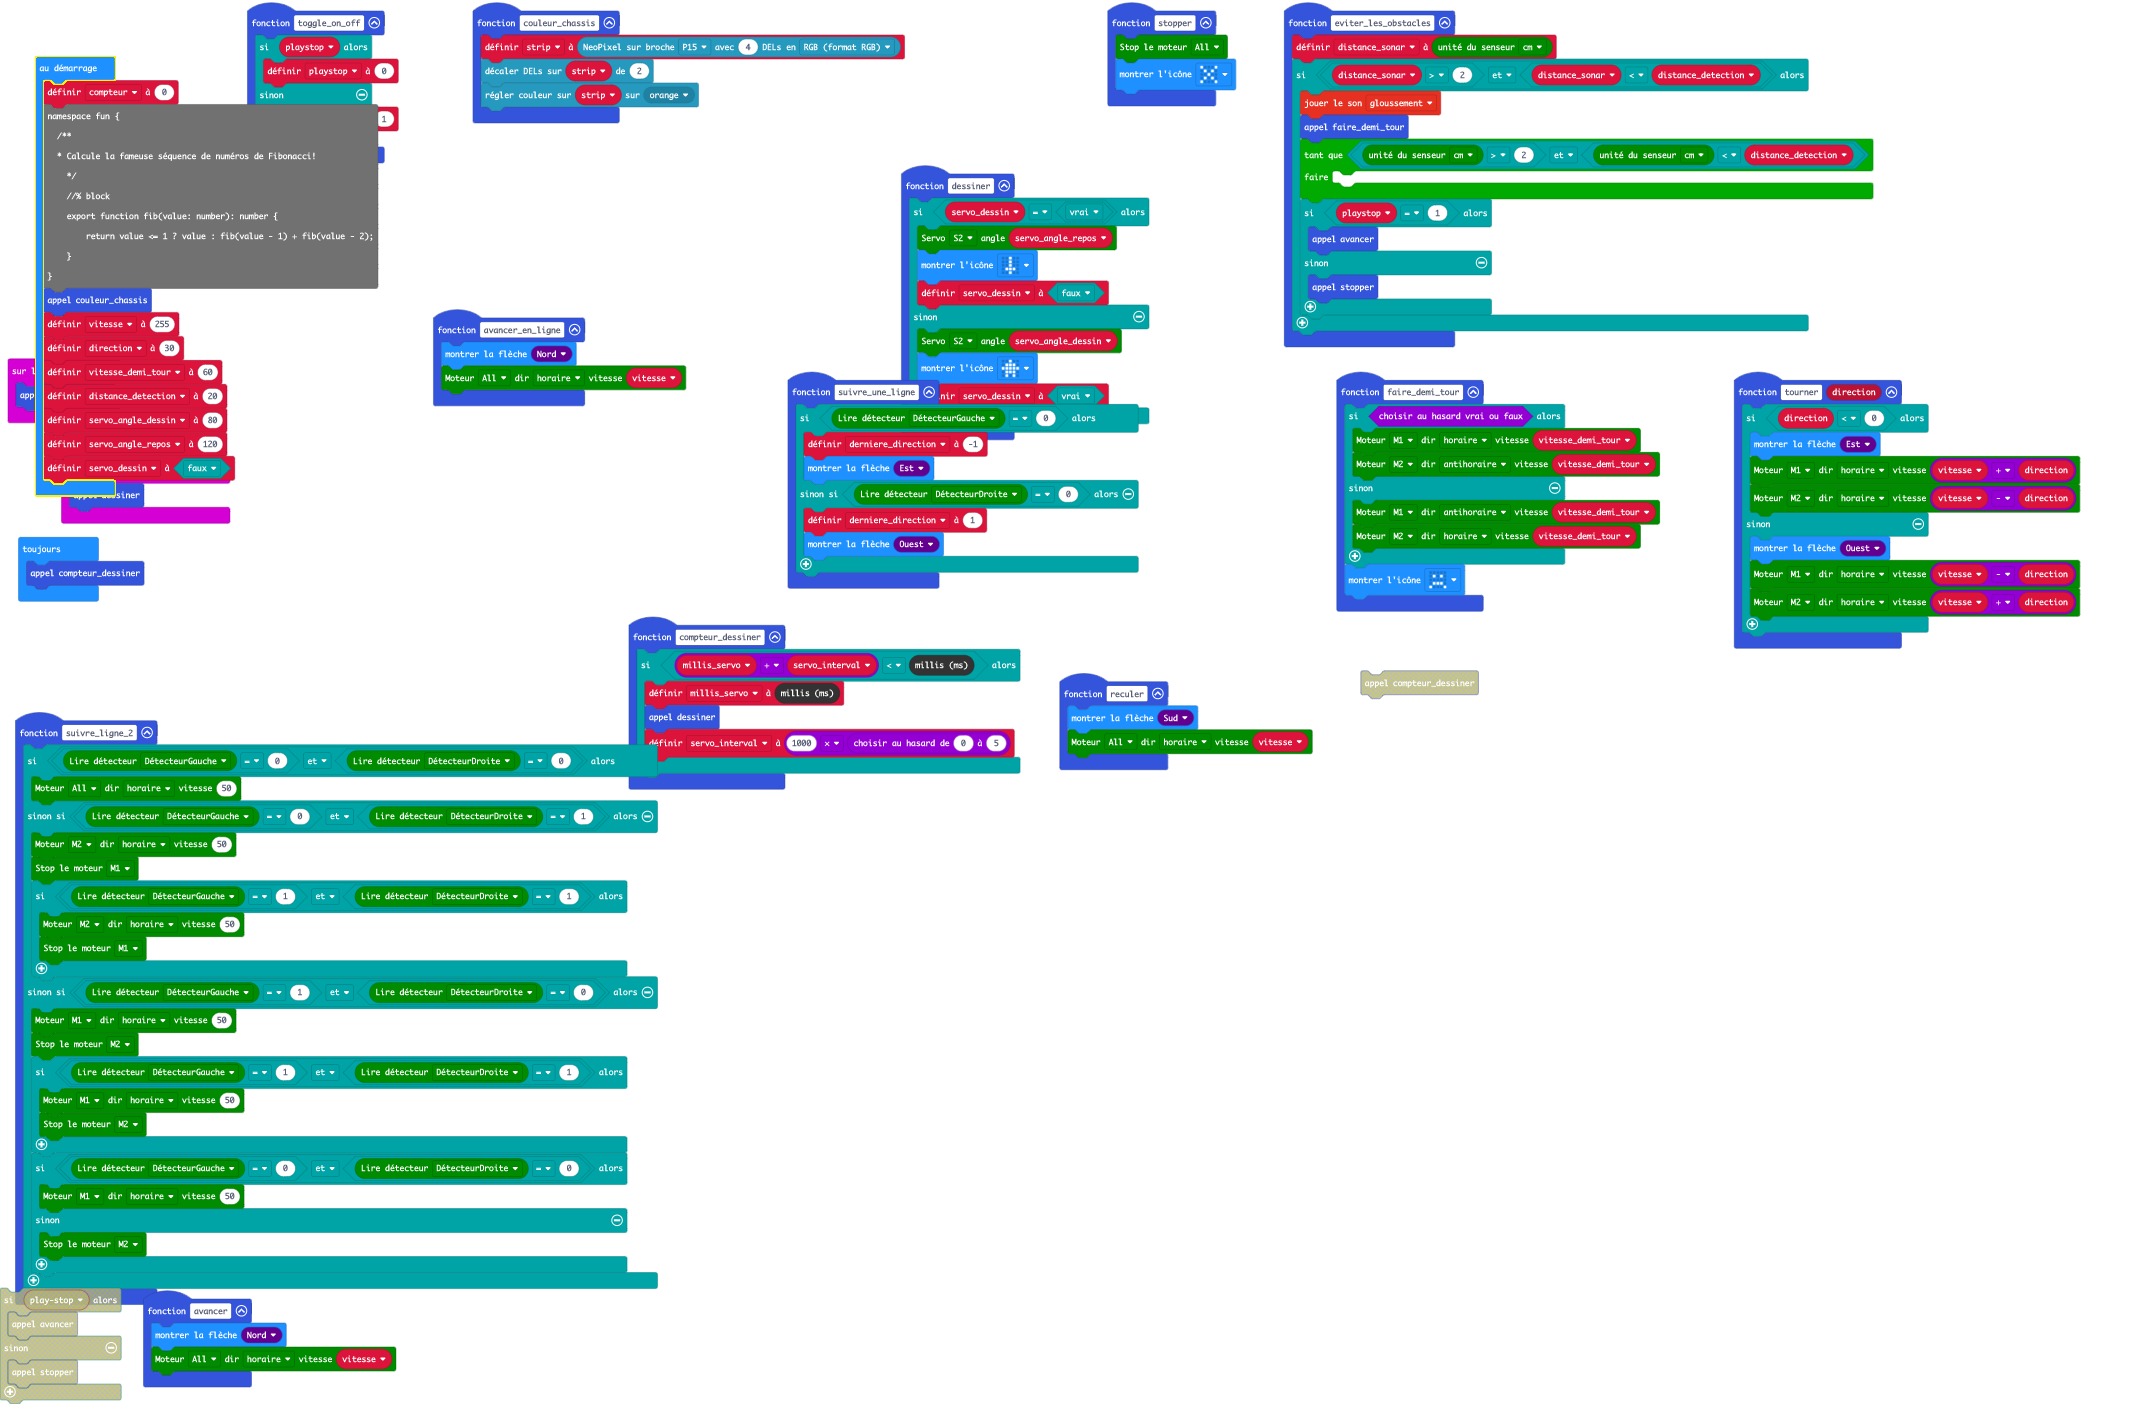
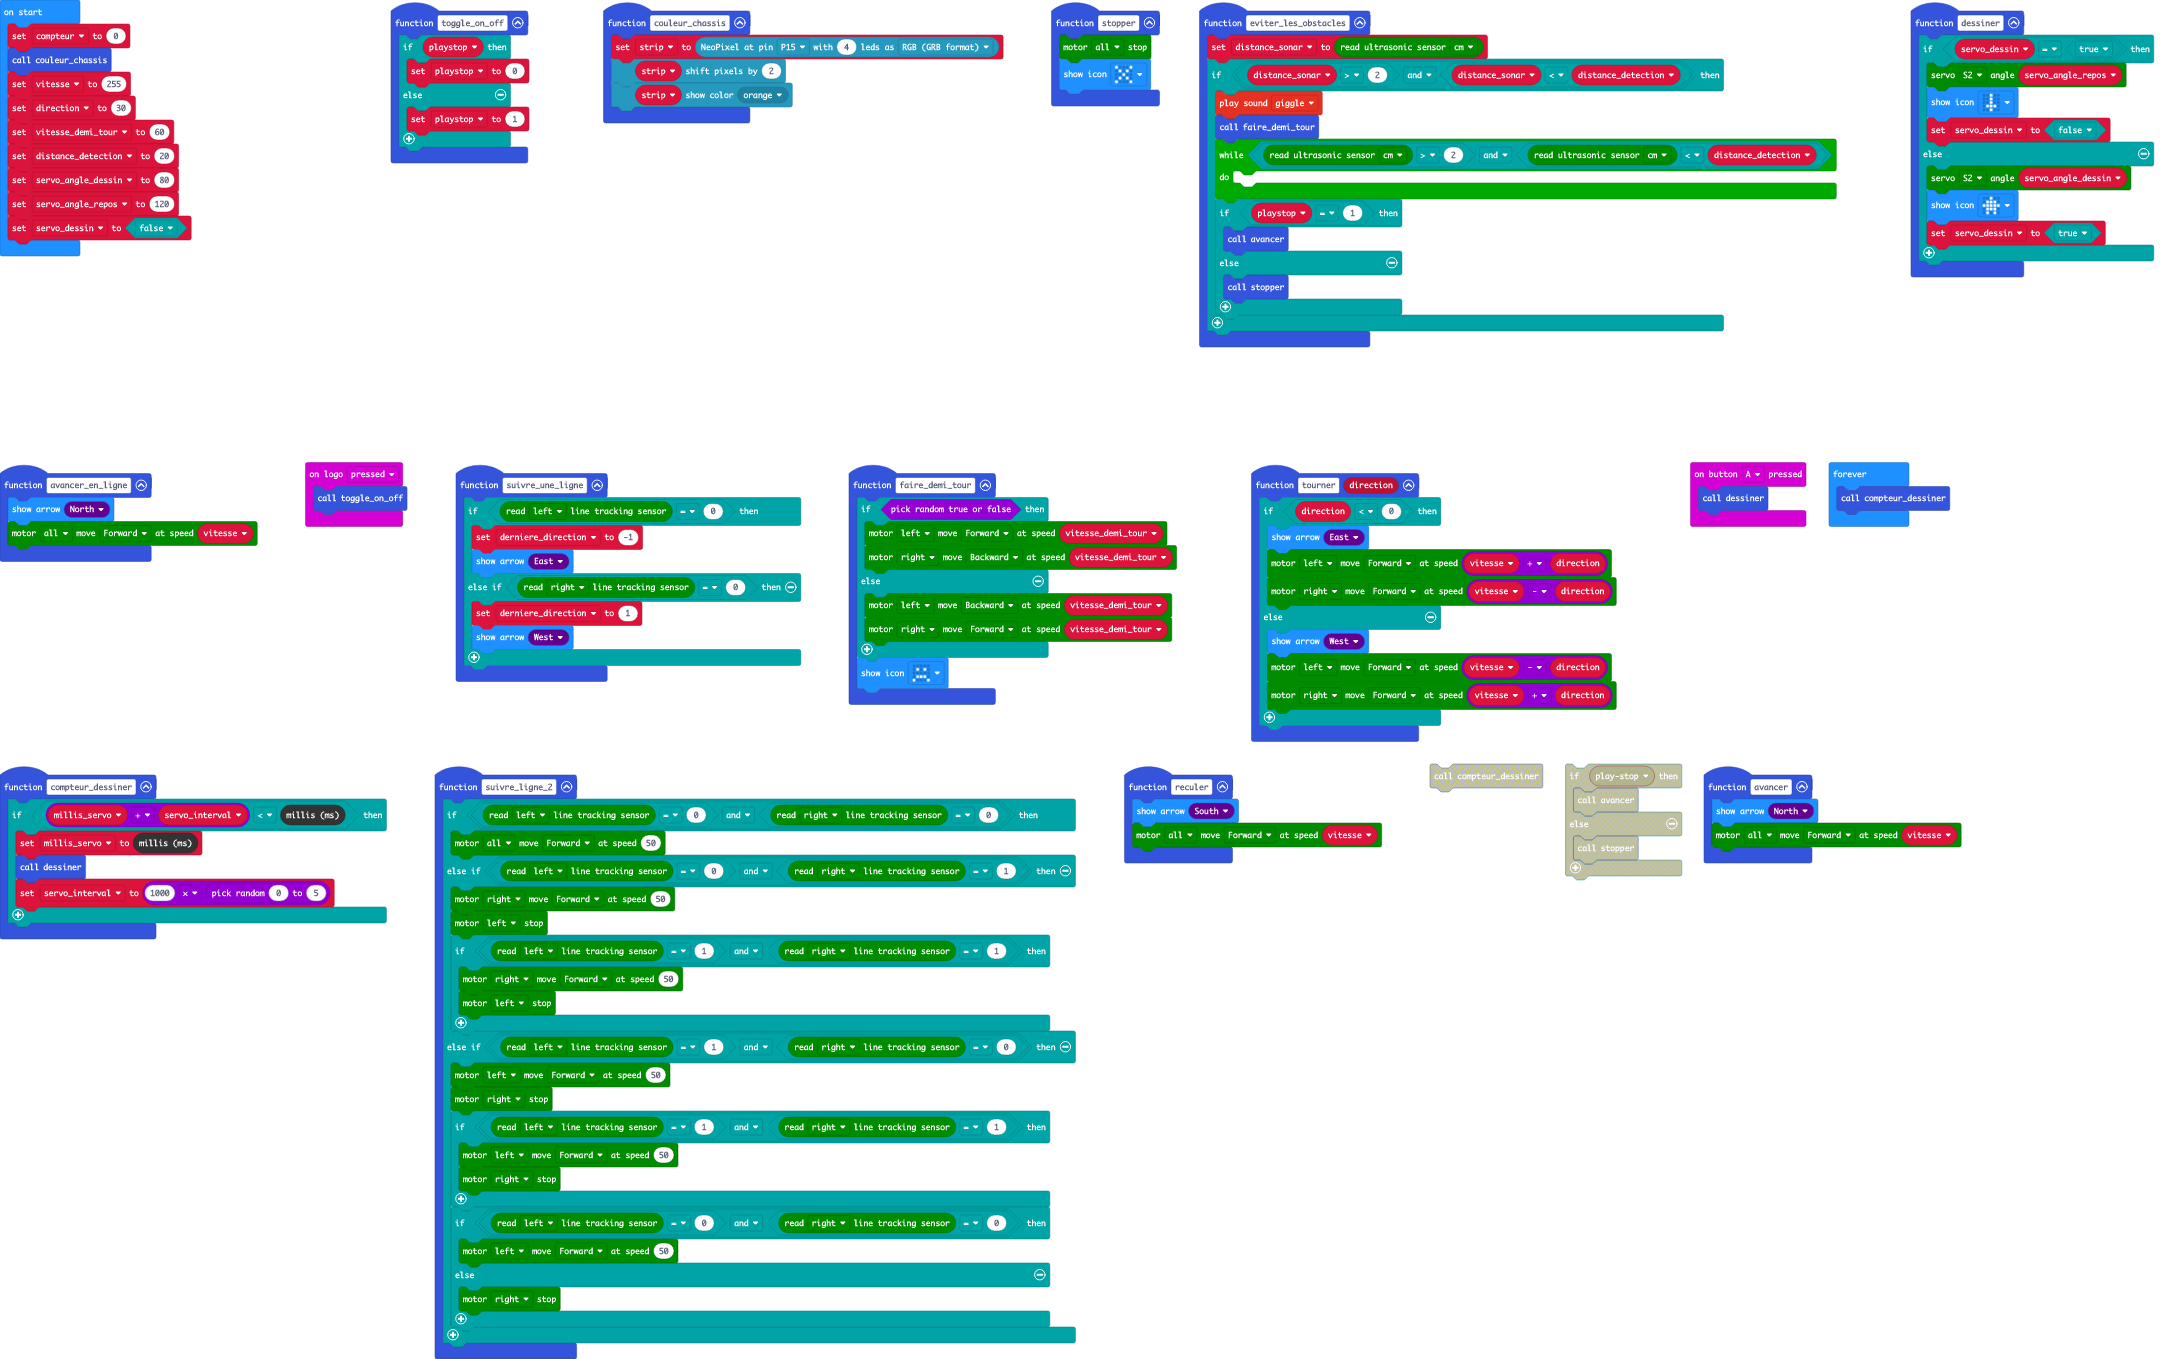
Update main.blocks, main.ts, counter.ts

diff --git a/main.ts b/main.ts
@@ -1,4 +1,4 @@
-function faire_demi_tour () {
+function faire_demi_tour() {
     if (Math.randomBoolean()) {
         maqueen.motorRun(maqueen.Motors.M1, maqueen.Dir.CW, vitesse_demi_tour)
         maqueen.motorRun(maqueen.Motors.M2, maqueen.Dir.CCW, vitesse_demi_tour)
@@ -6,25 +6,33 @@ function faire_demi_tour () {
         maqueen.motorRun(maqueen.Motors.M1, maqueen.Dir.CCW, vitesse_demi_tour)
         maqueen.motorRun(maqueen.Motors.M2, maqueen.Dir.CW, vitesse_demi_tour)
     }
+    
     basic.showIcon(IconNames.Sad)
 }
-function avancer_en_ligne () {
+
+function avancer_en_ligne() {
     basic.showArrow(ArrowNames.North)
     maqueen.motorRun(maqueen.Motors.All, maqueen.Dir.CW, vitesse)
 }
-function toggle_on_off () {
+
+function toggle_on_off() {
+    
     if (playstop) {
         playstop = 0
     } else {
         playstop = 1
     }
+    
 }
-function couleur_chassis () {
+
+function couleur_chassis() {
+    
     strip = neopixel.create(DigitalPin.P15, 4, NeoPixelMode.RGB)
     strip.shift(2)
     strip.showColor(neopixel.colors(NeoPixelColors.Orange))
 }
-function suivre_ligne_2 () {
+
+function suivre_ligne_2() {
     if (maqueen.readPatrol(maqueen.Patrol.PatrolLeft) == 0 && maqueen.readPatrol(maqueen.Patrol.PatrolRight) == 0) {
         maqueen.motorRun(maqueen.Motors.All, maqueen.Dir.CW, 50)
     } else if (maqueen.readPatrol(maqueen.Patrol.PatrolLeft) == 0 && maqueen.readPatrol(maqueen.Patrol.PatrolRight) == 1) {
@@ -34,6 +42,7 @@ function suivre_ligne_2 () {
             maqueen.motorRun(maqueen.Motors.M2, maqueen.Dir.CW, 50)
             maqueen.motorStop(maqueen.Motors.M1)
         }
+        
     } else if (maqueen.readPatrol(maqueen.Patrol.PatrolLeft) == 1 && maqueen.readPatrol(maqueen.Patrol.PatrolRight) == 0) {
         maqueen.motorRun(maqueen.Motors.M1, maqueen.Dir.CW, 50)
         maqueen.motorStop(maqueen.Motors.M2)
@@ -41,28 +50,43 @@ function suivre_ligne_2 () {
             maqueen.motorRun(maqueen.Motors.M1, maqueen.Dir.CW, 50)
             maqueen.motorStop(maqueen.Motors.M2)
         }
+        
         if (maqueen.readPatrol(maqueen.Patrol.PatrolLeft) == 0 && maqueen.readPatrol(maqueen.Patrol.PatrolRight) == 0) {
             maqueen.motorRun(maqueen.Motors.M1, maqueen.Dir.CW, 50)
         } else {
             maqueen.motorStop(maqueen.Motors.M2)
         }
+        
     }
+    
 }
-input.onButtonPressed(Button.A, function () {
+
+input.onButtonPressed(Button.A, function on_button_pressed_a() {
     dessiner()
 })
-function reculer () {
+function reculer() {
     basic.showArrow(ArrowNames.South)
     maqueen.motorRun(maqueen.Motors.All, maqueen.Dir.CW, vitesse)
 }
-function compteur_dessiner () {
+
+function compteur_inc() {
+    
+    compteur = Math.floor(control.millis() / 1000)
+    serial.writeLine("" + ("" + compteur))
+}
+
+function compteur_dessiner() {
+    
     if (millis_servo + servo_interval < control.millis()) {
         millis_servo = control.millis()
-        dessiner()
         servo_interval = 1000 * randint(0, 5)
+        dessiner()
     }
+    
 }
-function suivre_une_ligne () {
+
+function suivre_une_ligne() {
+    
     if (maqueen.readPatrol(maqueen.Patrol.PatrolLeft) == 0) {
         derniere_direction = -1
         basic.showArrow(ArrowNames.East)
@@ -70,15 +94,18 @@ function suivre_une_ligne () {
         derniere_direction = 1
         basic.showArrow(ArrowNames.West)
     }
+    
 }
-input.onLogoEvent(TouchButtonEvent.Pressed, function () {
+
+input.onLogoEvent(TouchButtonEvent.Pressed, function on_logo_pressed() {
     toggle_on_off()
 })
-function avancer () {
+function avancer() {
     basic.showArrow(ArrowNames.North)
     maqueen.motorRun(maqueen.Motors.All, maqueen.Dir.CW, vitesse)
 }
-function tourner (direction: number) {
+
+function tourner(direction: number) {
     if (direction < 0) {
         basic.showArrow(ArrowNames.East)
         maqueen.motorRun(maqueen.Motors.M1, maqueen.Dir.CW, vitesse + direction)
@@ -88,27 +115,35 @@ function tourner (direction: number) {
         maqueen.motorRun(maqueen.Motors.M1, maqueen.Dir.CW, vitesse - direction)
         maqueen.motorRun(maqueen.Motors.M2, maqueen.Dir.CW, vitesse + direction)
     }
+    
 }
-function stopper () {
+
+function stopper() {
     maqueen.motorStop(maqueen.Motors.All)
     basic.showIcon(IconNames.No)
 }
-function eviter_les_obstacles () {
+
+function eviter_les_obstacles() {
+    
     distance_sonar = maqueen.Ultrasonic(PingUnit.Centimeters)
     if (distance_sonar > 2 && distance_sonar < distance_detection) {
         soundExpression.giggle.play()
         faire_demi_tour()
         while (maqueen.Ultrasonic(PingUnit.Centimeters) > 2 && maqueen.Ultrasonic(PingUnit.Centimeters) < distance_detection) {
-        	
+            
         }
         if (playstop == 1) {
             avancer()
         } else {
             stopper()
         }
+        
     }
+    
 }
-function dessiner () {
+
+function dessiner() {
+    
     if (servo_dessin == true) {
         maqueen.servoRun(maqueen.Servos.S2, servo_angle_repos)
         basic.showIcon(IconNames.Sword)
@@ -118,21 +153,22 @@ function dessiner () {
         basic.showIcon(IconNames.House)
         servo_dessin = true
     }
+    
 }
+
 let distance_sonar = 0
 let derniere_direction = 0
 let servo_interval = 0
 let millis_servo = 0
-let strip: neopixel.Strip = null
+let strip : neopixel.Strip = null
 let playstop = 0
+let compteur = 0
 let servo_dessin = false
 let servo_angle_repos = 0
 let servo_angle_dessin = 0
 let distance_detection = 0
 let vitesse_demi_tour = 0
 let vitesse = 0
-let compteur = 0
-
 couleur_chassis()
 vitesse = 255
 let direction = 30
@@ -141,16 +177,7 @@ distance_detection = 20
 servo_angle_dessin = 80
 servo_angle_repos = 120
 servo_dessin = false
-basic.forever(function () {
-    compteur_dessiner()
+compteur = 0
+basic.forever(function on_forever() {
+    compteur_inc()
 })
-
-namespace fun {
-  /** 
-  * Calcule la fameuse séquence de numéros de Fibonacci!
-    */
-    //% block
-    export function fib(value: number): number {
-        return value <= 1 ? value : fib(value - 1) + fib(value - 2);
-    }
-}

diff --git a/counter.ts b/counter.ts
@@ -1,9 +1,26 @@
+//% color="#AA278D"
 namespace Counters {
-    /**
-    * Computes the famous Fibonacci number sequence!
-    */
-    //% block
-    export function fib(value: number): number {
-        return value <= 1 ? value : fib(value - 1) + fib(value - 2);
+    //%
+    export class counter { 
+         millis:number;
+         constructor() {
+            this.millis = control.millis();
+         }
+        
+    //% block="$this(counter) count until $interval and restart"
+    //% handlerStatement
+    public onEventAsStatement(interval: number, handler: () => void) {
+        if(this.millis + interval*1000 < control.millis()){
+             this.millis = control.millis();
+             handler();
+        }
+    }
+
+    }
+
+    //% block="create counters"
+    //% blockSetVariable=counter
+    export function createCounters(): counter {
+        return new counter();
     }
 }
